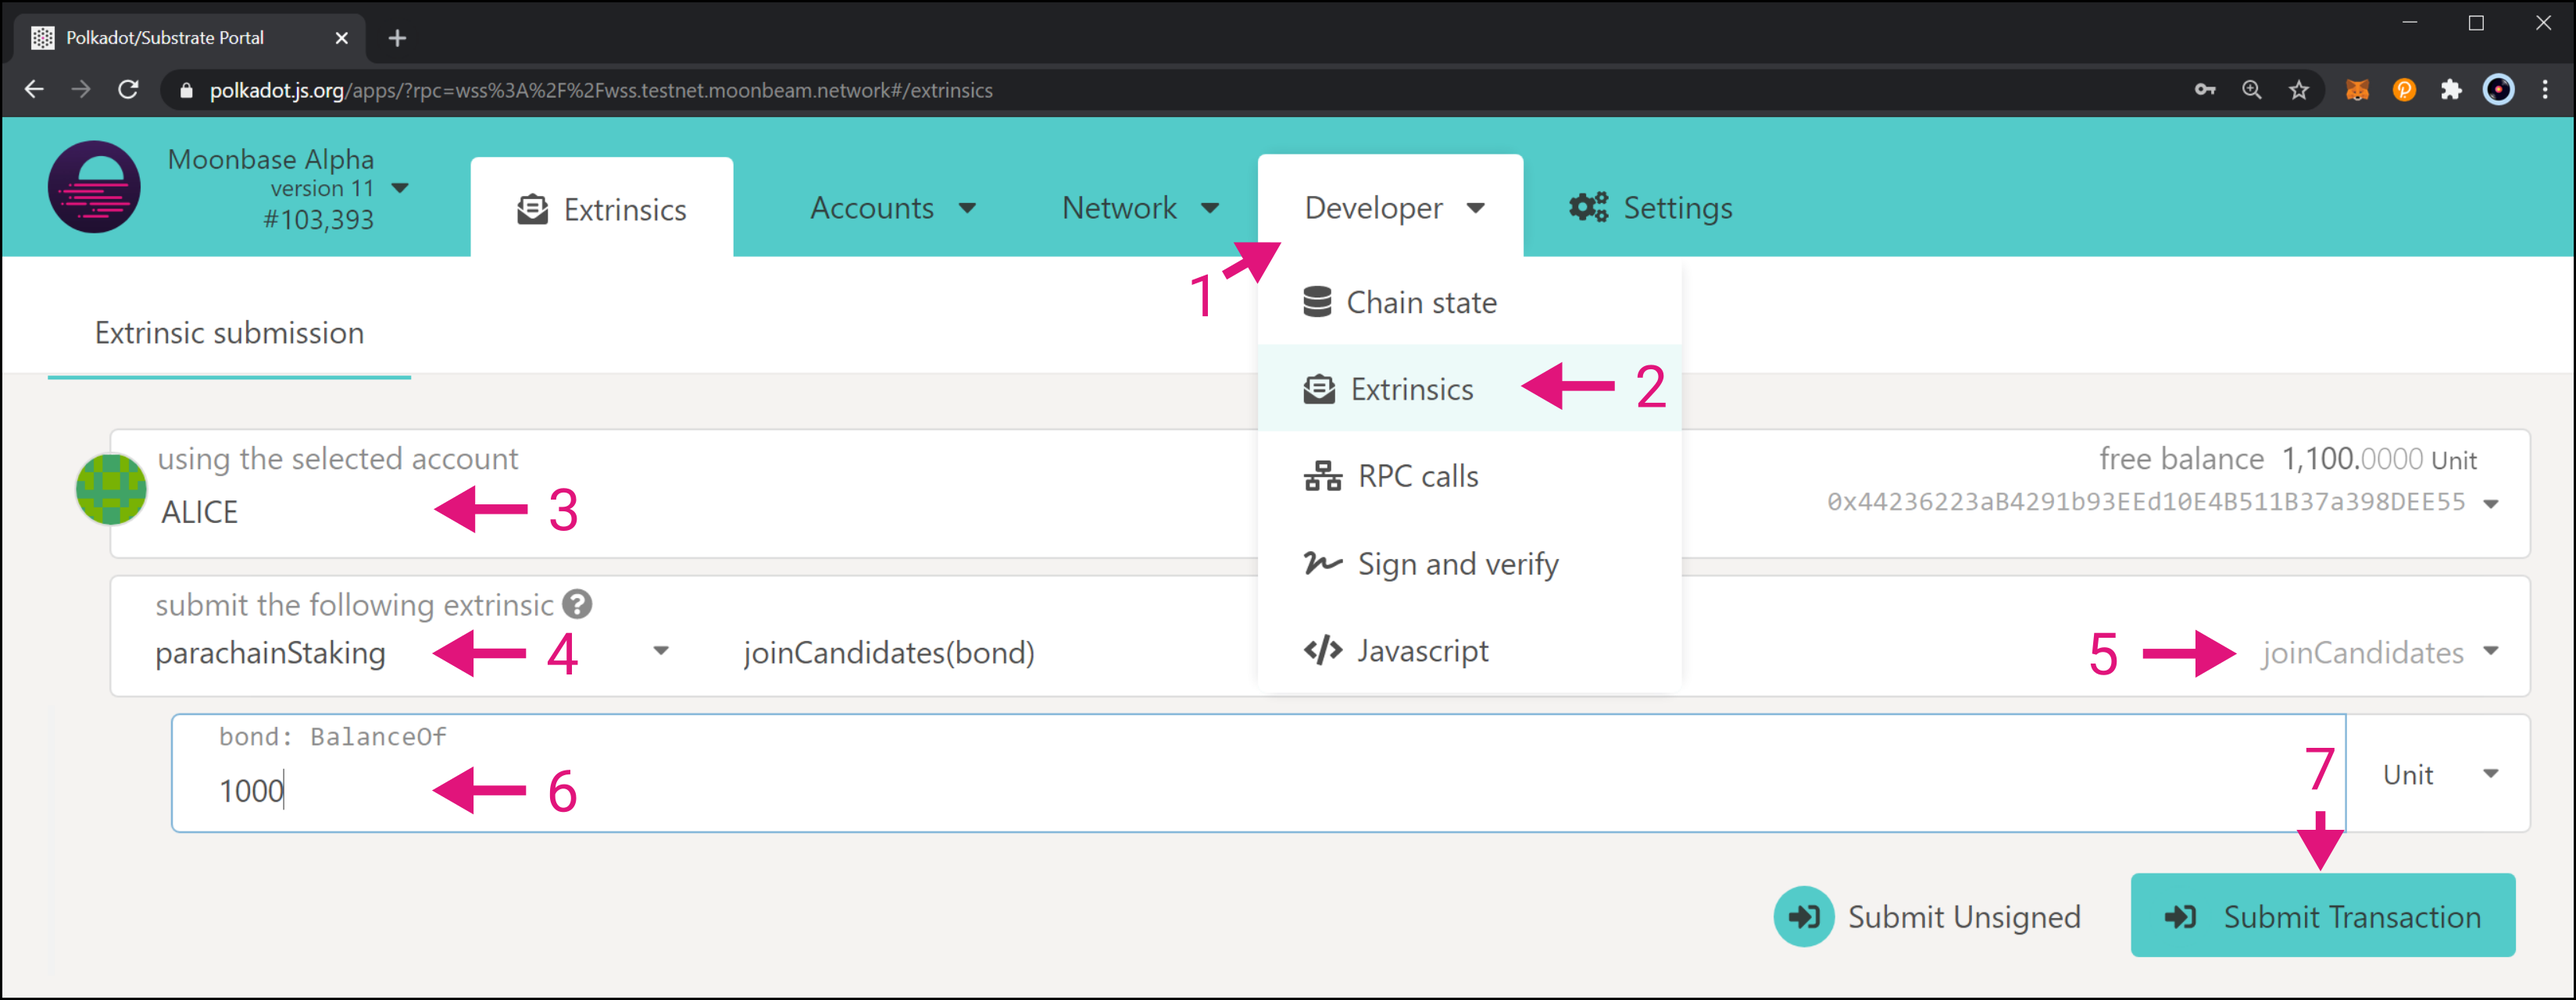
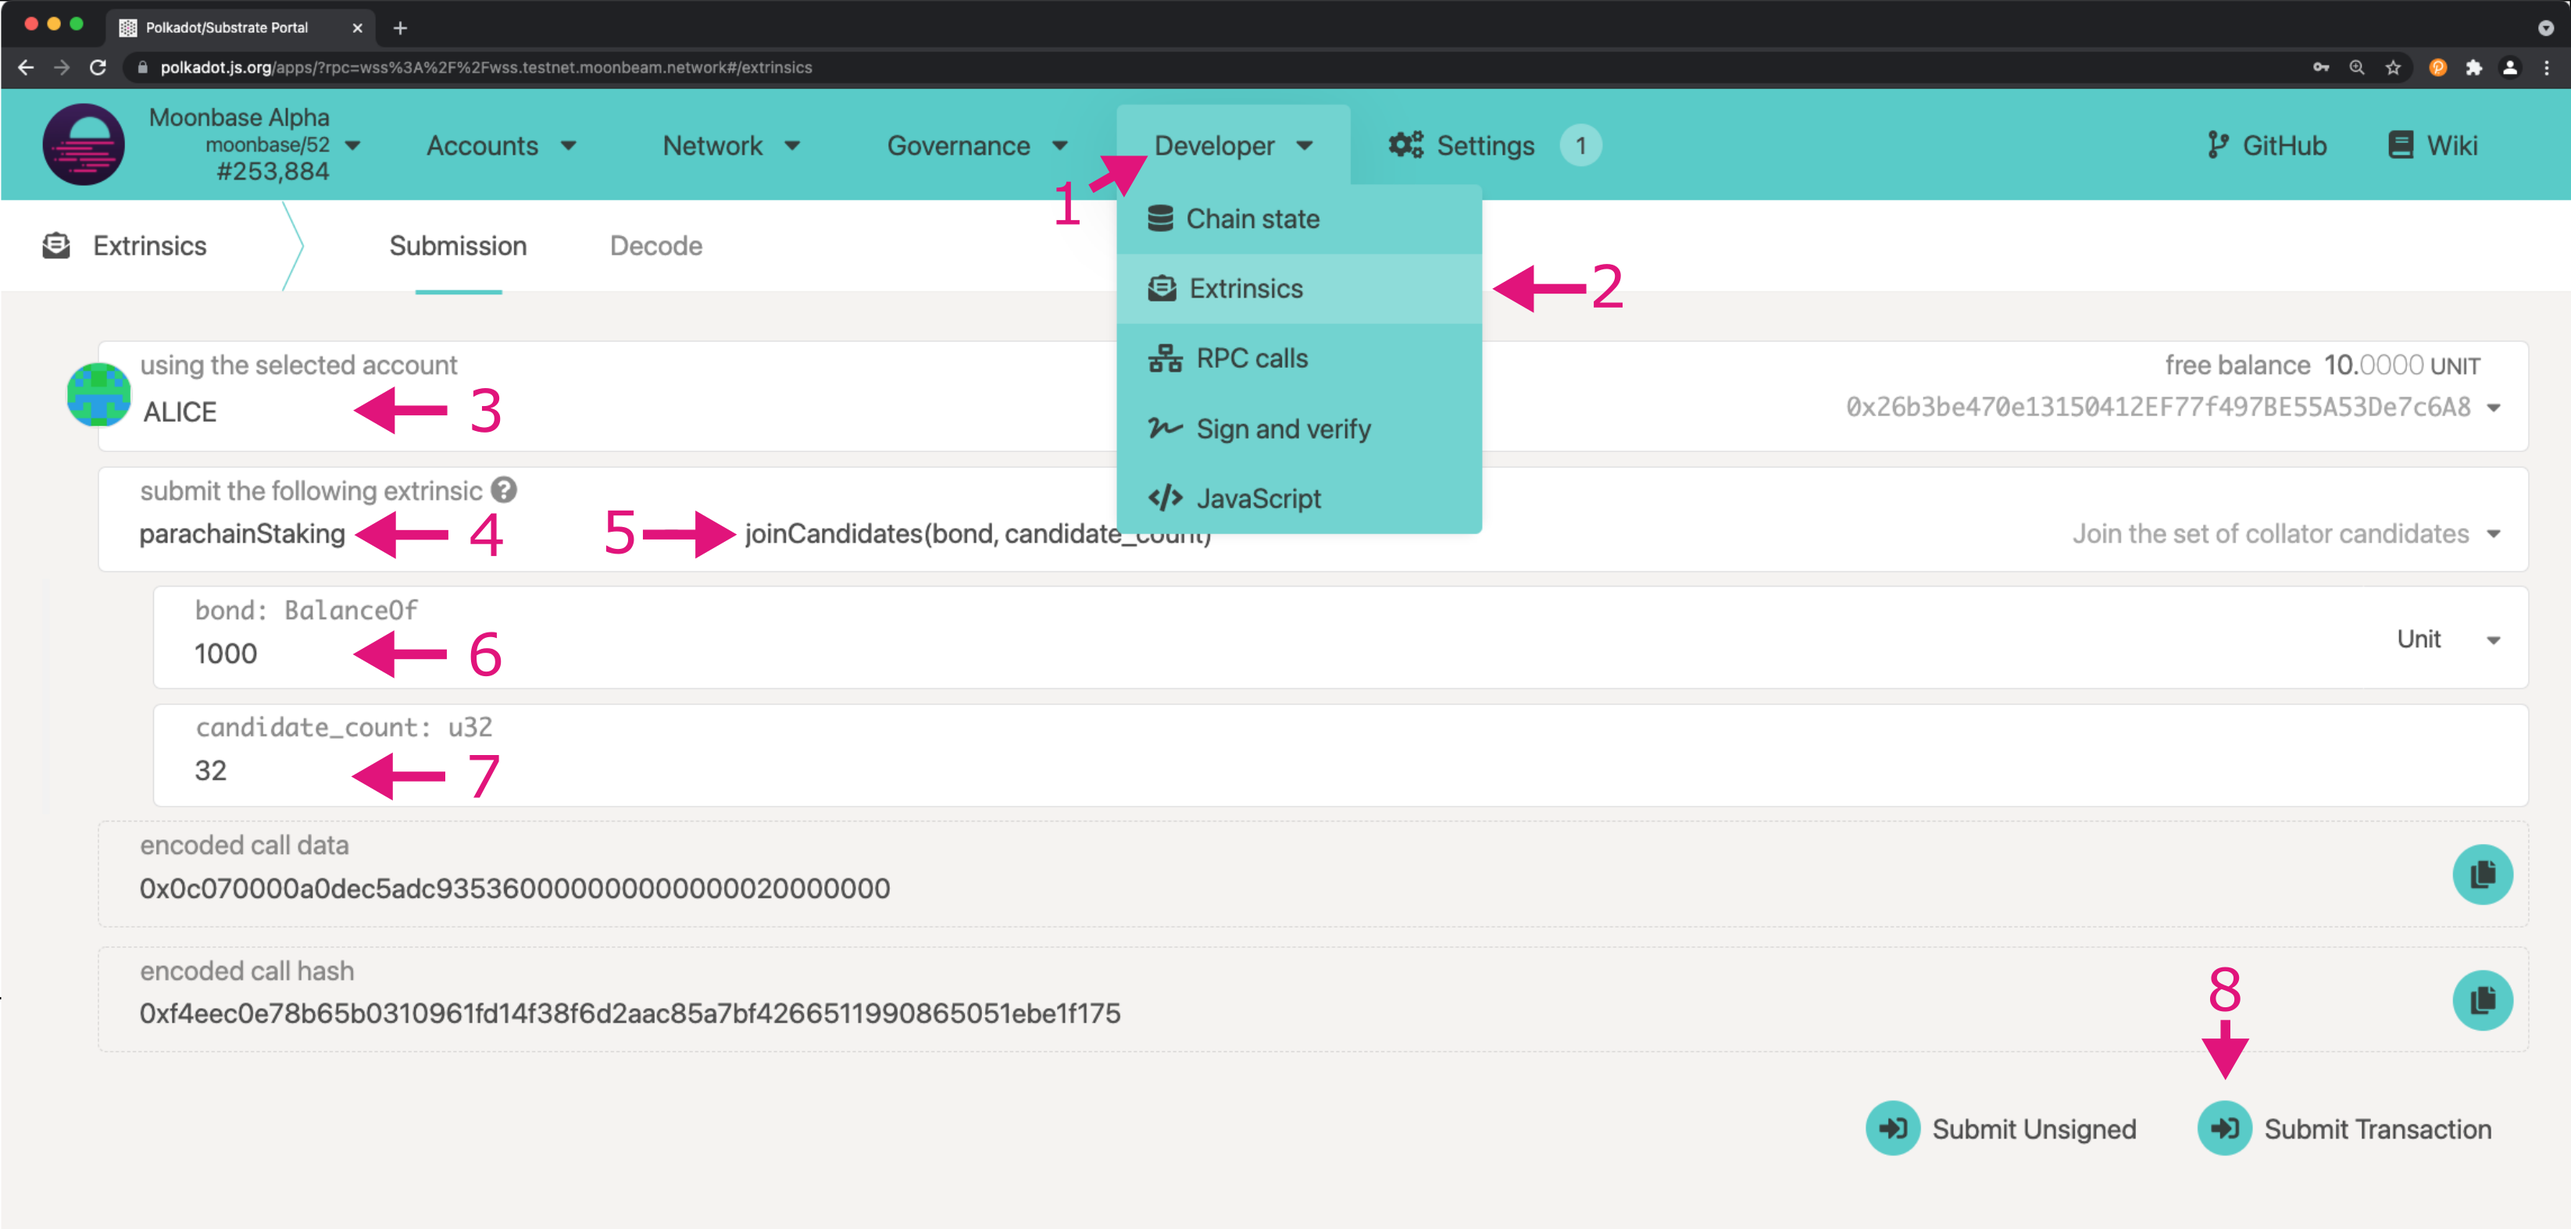
update and clean up image numbering

diff --git a/node-operators/networks/collator.md b/node-operators/networks/collator.md
@@ -49,7 +49,7 @@ Currently, you have two ways of proceeding in regards having an account in [Polk
 
 Once you have an H160 account imported to PolkadotJS, you should see it under the "Accounts" tab. Make sure you have your public address at hand (`PUBLIC_KEY`), as it is needed to configure your [deploy your full node](/node-operators/networks/full-node/) with the collation options.
 
-![Account in PolkadotJS](/images/fullnode/collator-polkadotjs1.png)
+![Account in PolkadotJS](/images/fullnode/collator-polkadotjs0.png)
 
 ### Become a Collator Candidate
 
@@ -62,7 +62,7 @@ You need to get the `totalSelected` parameter (this can change thru governance) 
 4. Open the drop-down menu, which lists all the possible queries related to `parachainStaking`, and choose `totalSelected`
 5. Click on the `+` icon to submit the query
 
-![Get Number of Candidates](/images/fullnode/collator-polkadotjs0.png)
+![Get Number of Candidates](/images/fullnode/collator-polkadotjs1.png)
 
 #### Join the Candidate Pool
 
@@ -77,7 +77,7 @@ Once your node is running and in sync with the network, you become a collator ca
  7. Set the candidate count to the value returned by the `totalSelected` chain state query, currently `{{ networks.moonbase.staking.max_collators }}`
  8. Submit the transaction. Follow the wizard and sign the transaction using the password you set for the account
 
-![Join Collators pool PolkadotJS](/images/fullnode/collator-polkadotjs2a.png)
+![Join Collators pool PolkadotJS](/images/fullnode/collator-polkadotjs2.png)
 
 !!! note
     Function names and the minimum bond requirement are subject to change in future releases.
